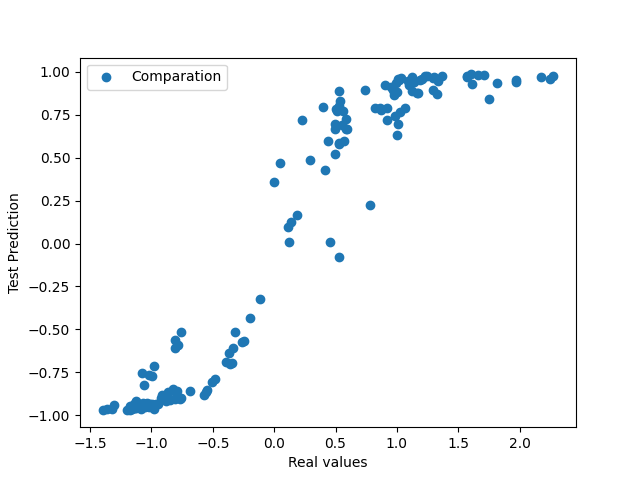
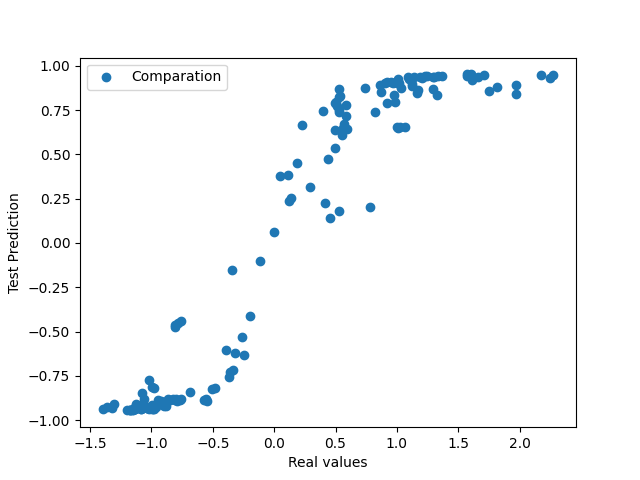
resultados

diff --git a/NeuralNetwork-personalized.py b/NeuralNetwork-personalized.py
@@ -36,8 +36,7 @@ activation_function='tanh'
 # Keras model
 model = Sequential()
 model.add(Dense(4, activation=activation_function, input_dim=X_train.shape[1]))
-model.add(Dense(9, activation=activation_function))
-model.add(Dense(5, activation=activation_function))
+model.add(Dense(3, activation=activation_function))
 model.add(Dense(1, activation=activation_function))
 
 model.compile(optimizer='adam', loss='mean_squared_error', metrics=['accuracy','mean_squared_error'])
